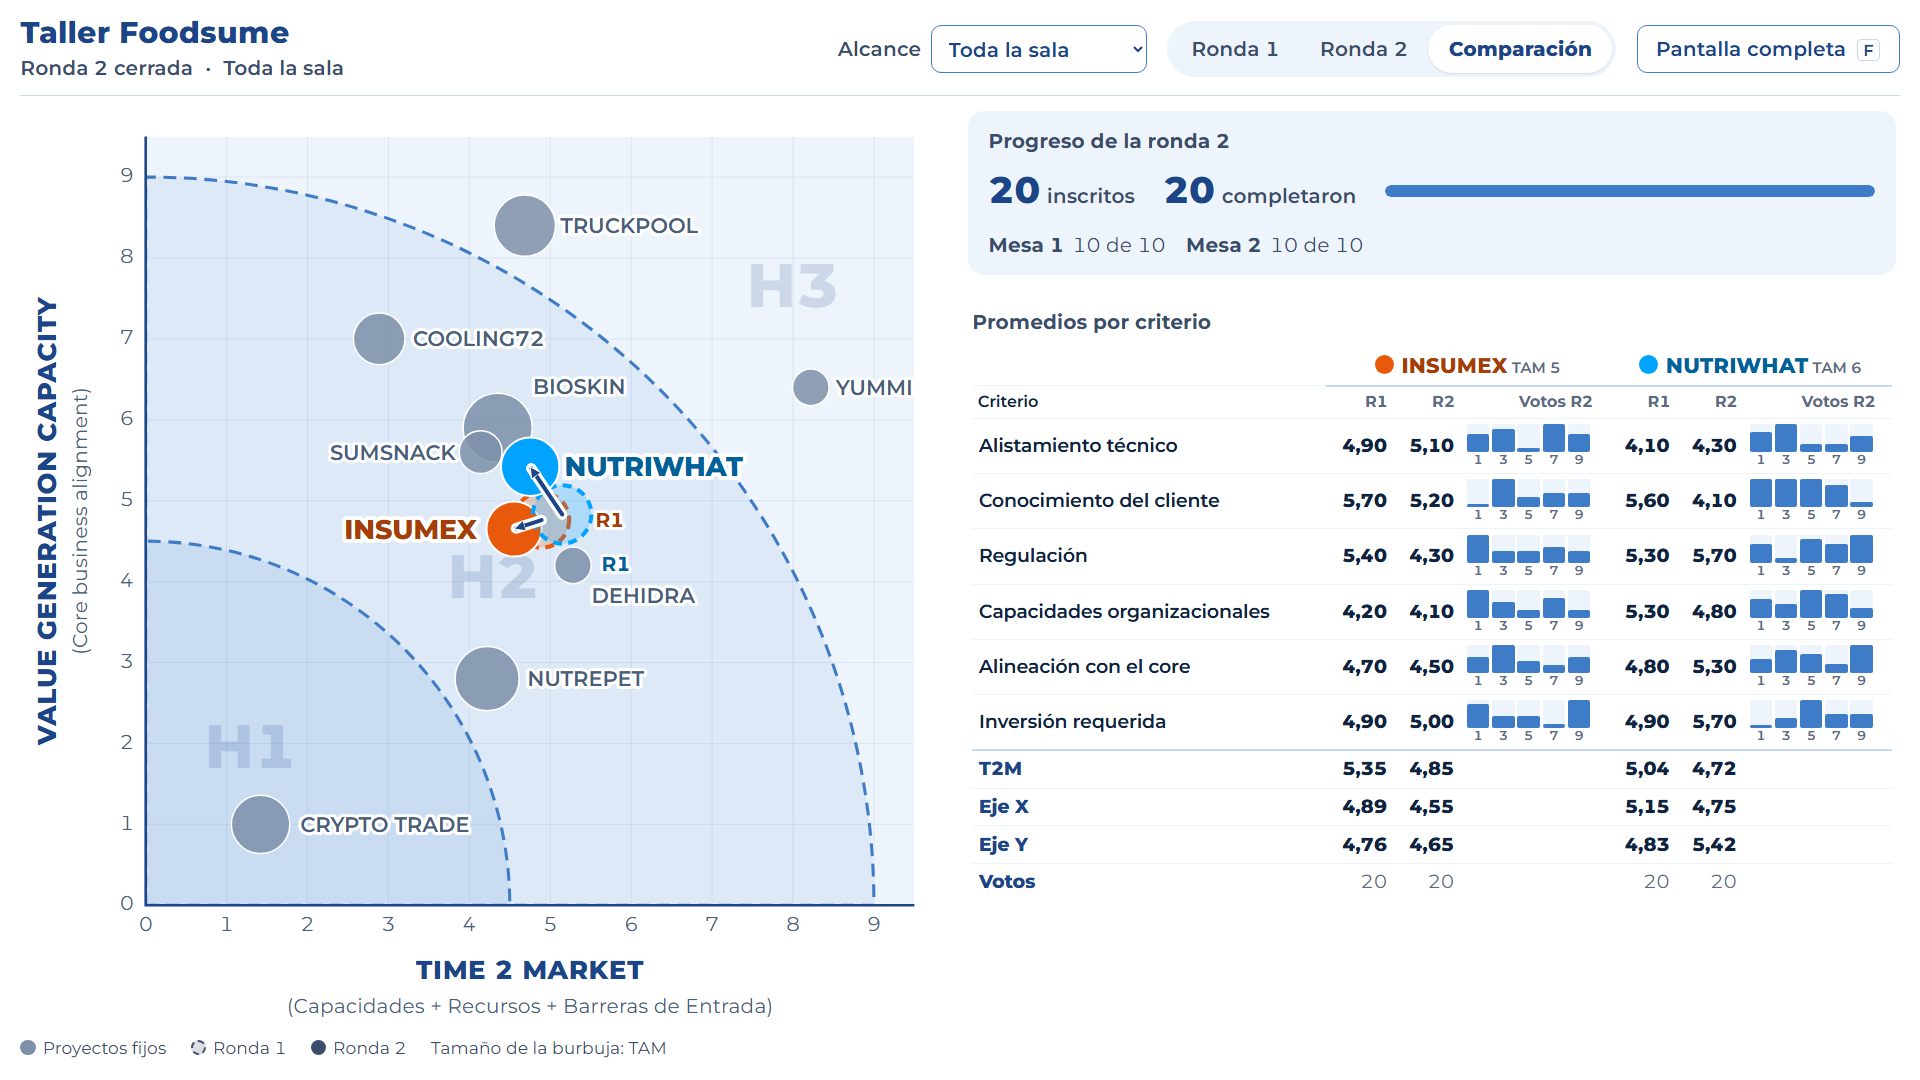
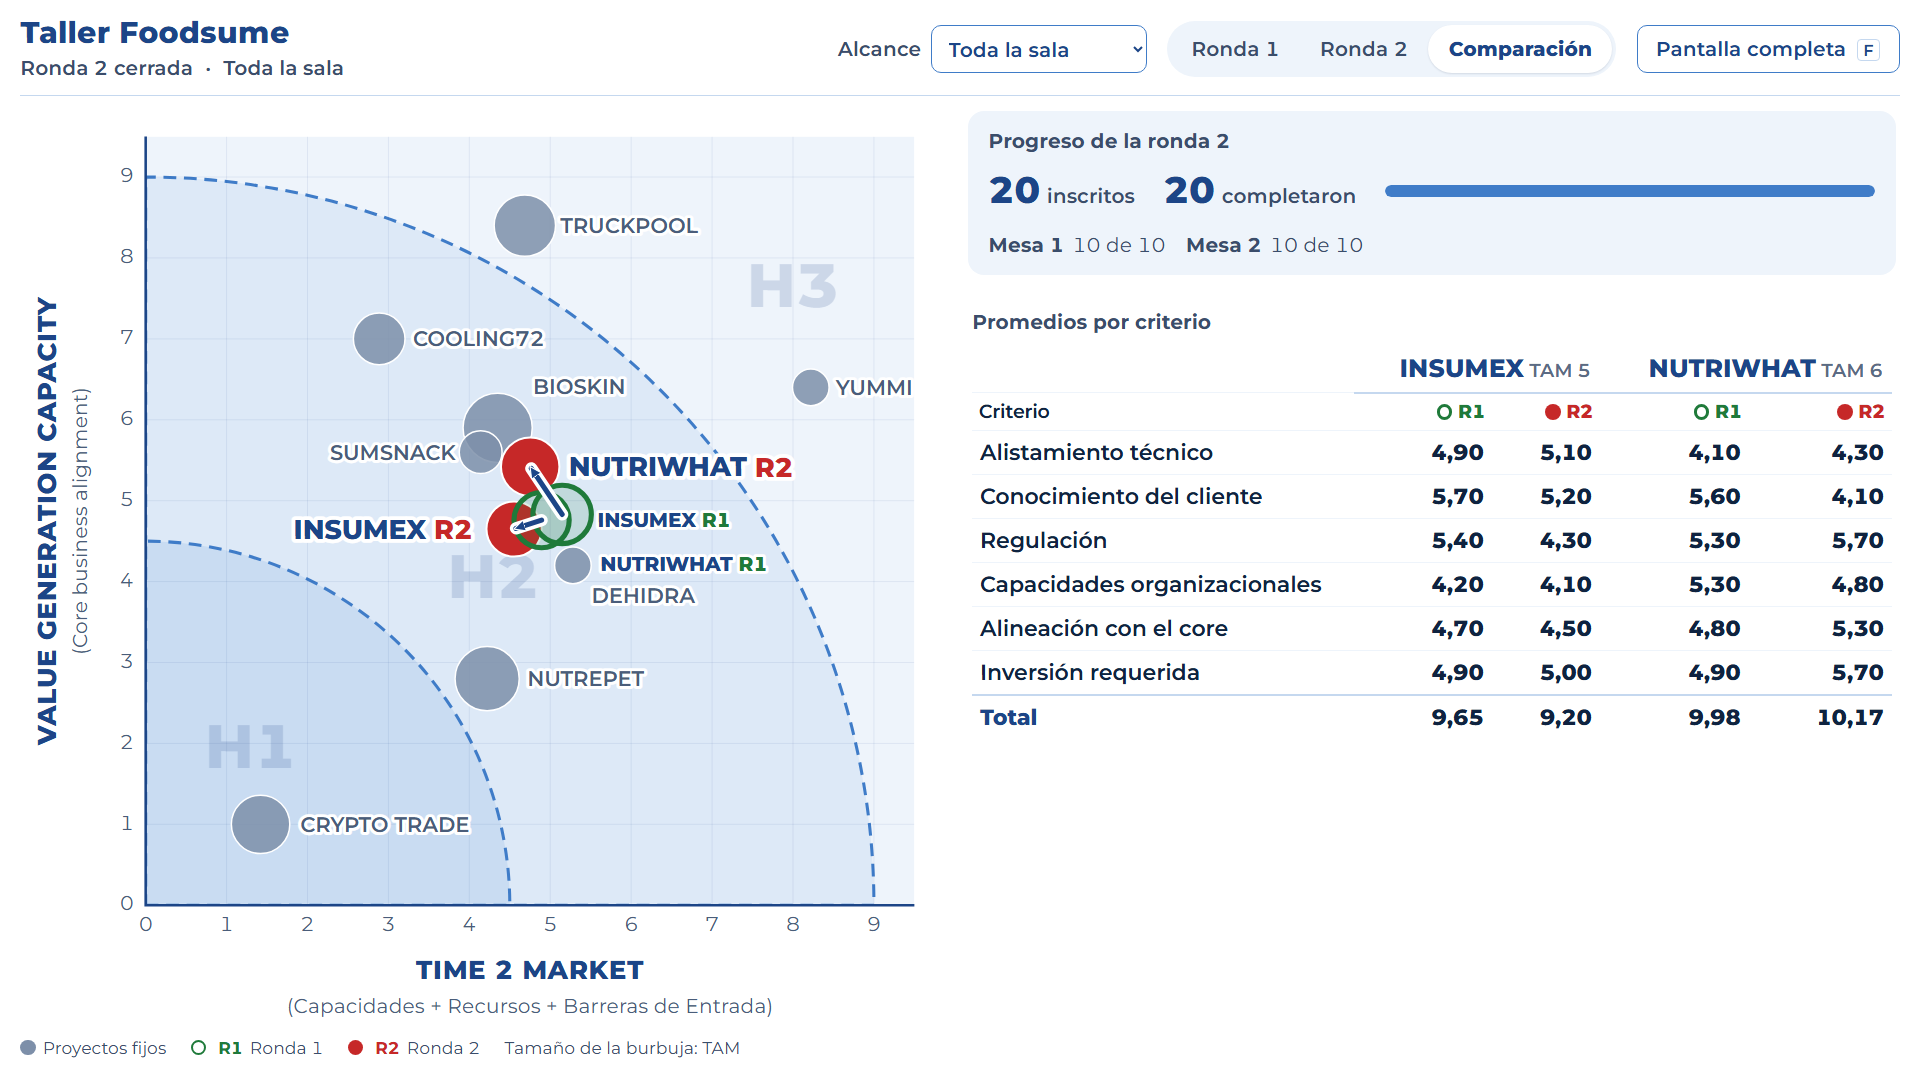
Capturas de referencia con el acta: R1 verde, R2 roja, franja de fase, Total y mínimo de votos

diff --git a/docs/capturas/README.md b/docs/capturas/README.md
@@ -1,6 +1,6 @@
 # Capturas de referencia del tablero
 
-Para la guía del facilitador. Datos: la prueba sintética del golden (20 personas, 2 mesas) en una sala llamada "Taller Foodsume". Se regeneran con:
+Para la guía del facilitador. Con los cambios del acta del 16-oct: ronda 1 en verde (aro hueco, «R1»), ronda 2 en rojo (burbuja sólida, «R2»), franja de la fase mientras una ronda está abierta y tabla con los 6 criterios y la fila «Total» (eje X + eje Y, del servidor). Datos: la prueba sintética del golden (20 personas, 2 mesas) en una sala llamada "Taller Foodsume". Se regeneran con:
 
 ```bash
 HZ_E2E_ESPERA_MS=0 HZ_CAPTURAS_GUIA=docs/capturas npx vitest run web/tablero/e2e -t "capturas de referencia"
@@ -10,12 +10,15 @@ HZ_E2E_ESPERA_MS=0 HZ_CAPTURAS_GUIA=docs/capturas npx vitest run web/tablero/e2e
 |---|---|---|
 | `01-ronda-1.png` | Matriz con la posición de la ronda 1 (tecla 1) | Al cerrar la ronda 1 |
 | `02-ronda-2.png` | Matriz con la posición de la ronda 2 (tecla 2) | Durante y al cerrar la ronda 2 |
-| `03-comparacion.png` | R1 punteado, R2 sólido y flecha del movimiento (tecla C) | Sola al cerrar la ronda 2, con la animación R1 a R2 |
-| `04-preliminar.png` | Ronda 1 abierta con todos ya votados: insignia "Preliminar" y avisos de mesas completas | Antes de que el facilitador cierre la ronda |
+| `03-comparacion.png` | R1 hueco verde, R2 sólido rojo y flecha del movimiento (tecla C) | Sola al cerrar la ronda 2, con la animación R1 a R2 |
+| `04-preliminar.png` | Ronda 1 abierta con todos ya votados: franja verde «Ronda 1 · individual y en silencio», insignia "Preliminar" y avisos de mesas completas | Antes de que el facilitador cierre la ronda |
 | `05-todas-las-mesas.png` | Una matriz por mesa (alcance "Todas las mesas") | Para comparar equipos |
 | `06-proyector-pantalla-completa.png` | Pantalla completa (tecla F): sin controles, con el nombre de la vista | En el proyector |
 | `07-proyector-1280x720.png` | Proyector de 1280×720: todo cabe sin desplazar | Proyectores de baja resolución |
 | `08-mesa-1.png` | Alcance de una sola mesa | Para mostrar a una mesa su resultado |
 | `09-celular-360.png` | Celular de 360 px (página completa) | Si alguien abre el tablero en el celular |
+| `10-ronda-2-abierta.png` | Ronda 2 abierta: franja roja «Ronda 2 · discusión en la mesa» y tabla R1/R2 con «Total» | Durante la ronda 2 |
+| `11-minimo-de-votos.png` | Mesa con menos de 3 votos: «Hace falta al menos 3 votos para mostrar esta mesa» y «Faltan votos» en la tabla | Al empezar una ronda, mientras la mesa vota |
+| `12-celular-360-ronda-2.png` | Celular de 360 px con la ronda 2 abierta (página completa) | Si alguien abre el tablero en el celular |
 
 Atajos del proyector: F pantalla completa, 1 ronda 1, 2 ronda 2, C comparación.
